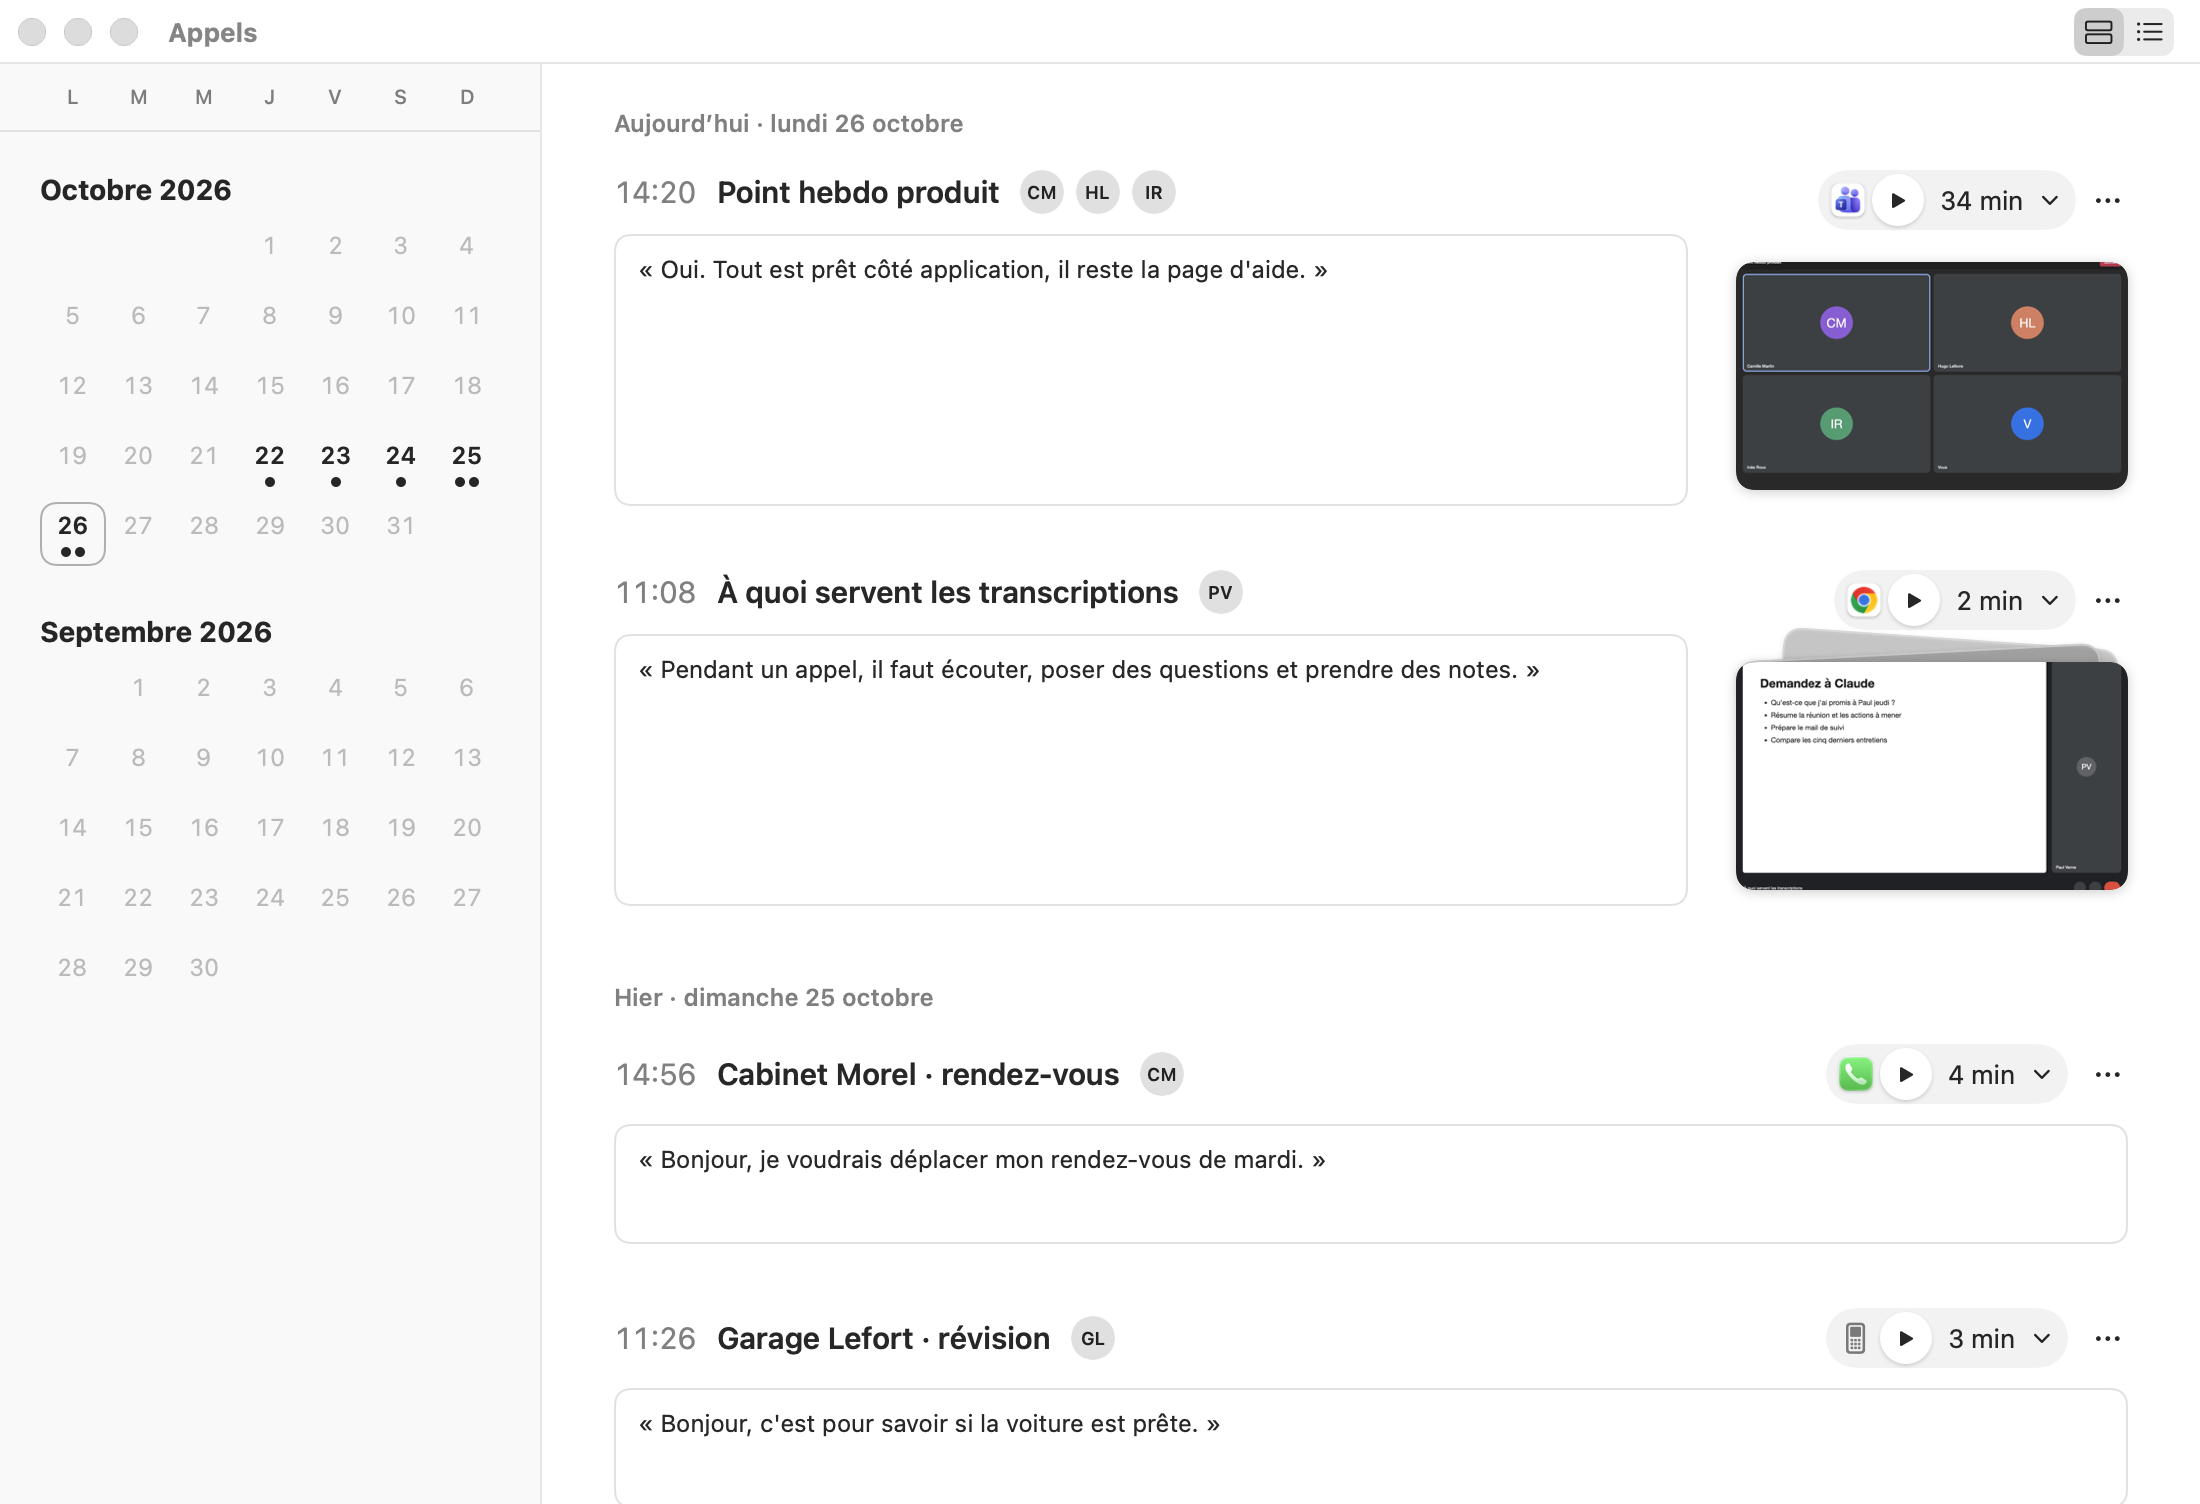
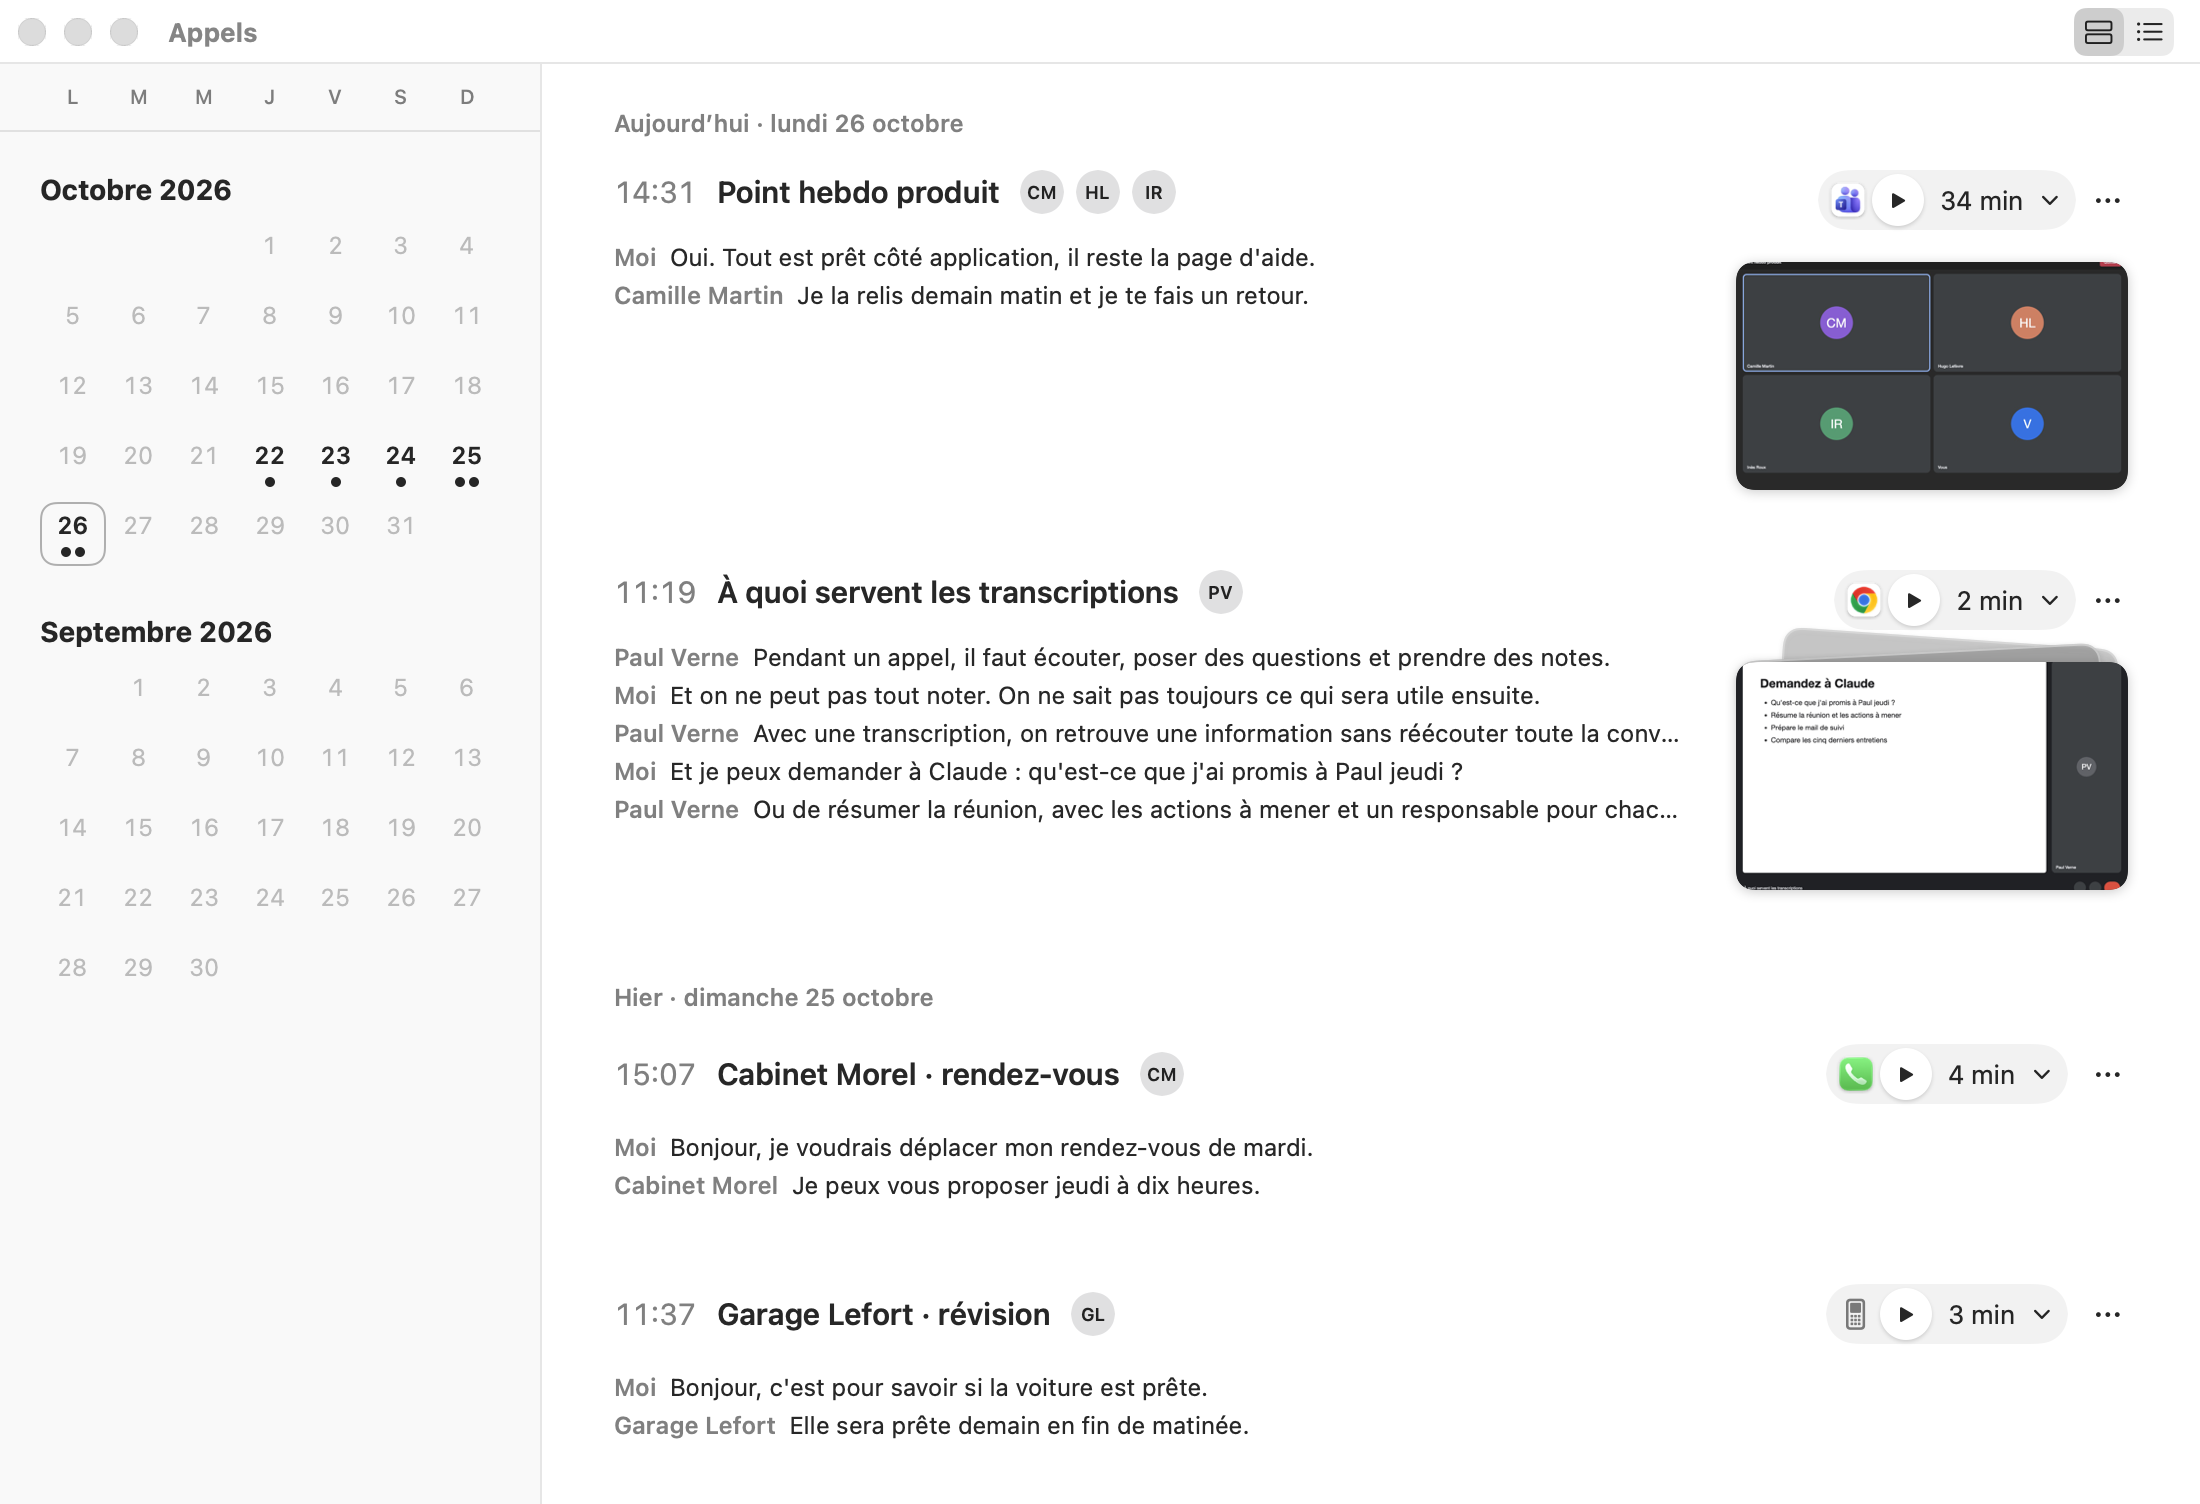
Page : 0.5.4 et captures refaites

diff --git a/index.html b/index.html
@@ -350,7 +350,8 @@
         <p>CallRecorder se met à jour tout seul. Pour vérifier tout de suite : icône de CallRecorder &gt; Rechercher une mise à jour.</p>
       </div>
       <div class="group" style="margin-top:56px">
-        <div class="row version"><div class="num">0.5.3<span class="latest">Dernière</span><small>26 octobre 2026</small></div><div><p>Les appels Android s'enregistrent sans rien installer : l'outil scrcpy est livré dans l'app.</p></div></div>
+        <div class="row version"><div class="num">0.5.4<span class="latest">Dernière</span><small>26 octobre 2026</small></div><div><p>Cartes des appels : toute la carte ouvre la fenêtre de l'appel, avec un extrait de quelques répliques. Fenêtre de l'appel : les captures dans une colonne à droite, les répliques espacées selon le temps écoulé.</p></div></div>
+        <div class="row version"><div class="num">0.5.3<small>26 octobre 2026</small></div><div><p>Les appels Android s'enregistrent sans rien installer : l'outil scrcpy est livré dans l'app.</p></div></div>
         <div class="row version"><div class="num">0.5.2<small>26 octobre 2026</small></div><div><p>Appels Android : le numéro et le nom de l'interlocuteur, retrouvés même quand le téléphone est rebranché après l'appel.</p></div></div>
         <div class="row version"><div class="num">0.5.0<small>26 octobre 2026</small></div><div><p>Enregistre les appels de l'iPhone (app Téléphone du Mac) et des Pixel branchés en USB. Transcription rapide par la reconnaissance vocale d'Apple sur macOS 26 ; qualité max par Whisper, nourrie des mots lus à l'écran.</p><a class="thumb" href="img/configuration-telephones.png"><img src="img/configuration-telephones.png" loading="lazy" alt="La partie Téléphones de la configuration"></a></div></div>
         <div class="row version"><div class="num">0.4.0<small>25 octobre 2026</small></div><div><p>Nouvelle fenêtre des appels : calendrier, cartes avec l'enregistrement à écouter, les captures et un extrait de la transcription. Une fenêtre par appel, avec la transcription liée à l'enregistrement, les captures, la copie et l'export. Après 7 jours, seul l'audio part à la corbeille. Suppression d'un appel annulable pendant 5 secondes.</p><a class="thumb" href="img/appels.png"><img src="img/appels.png" loading="lazy" alt="La nouvelle fenêtre des appels"></a></div></div>
